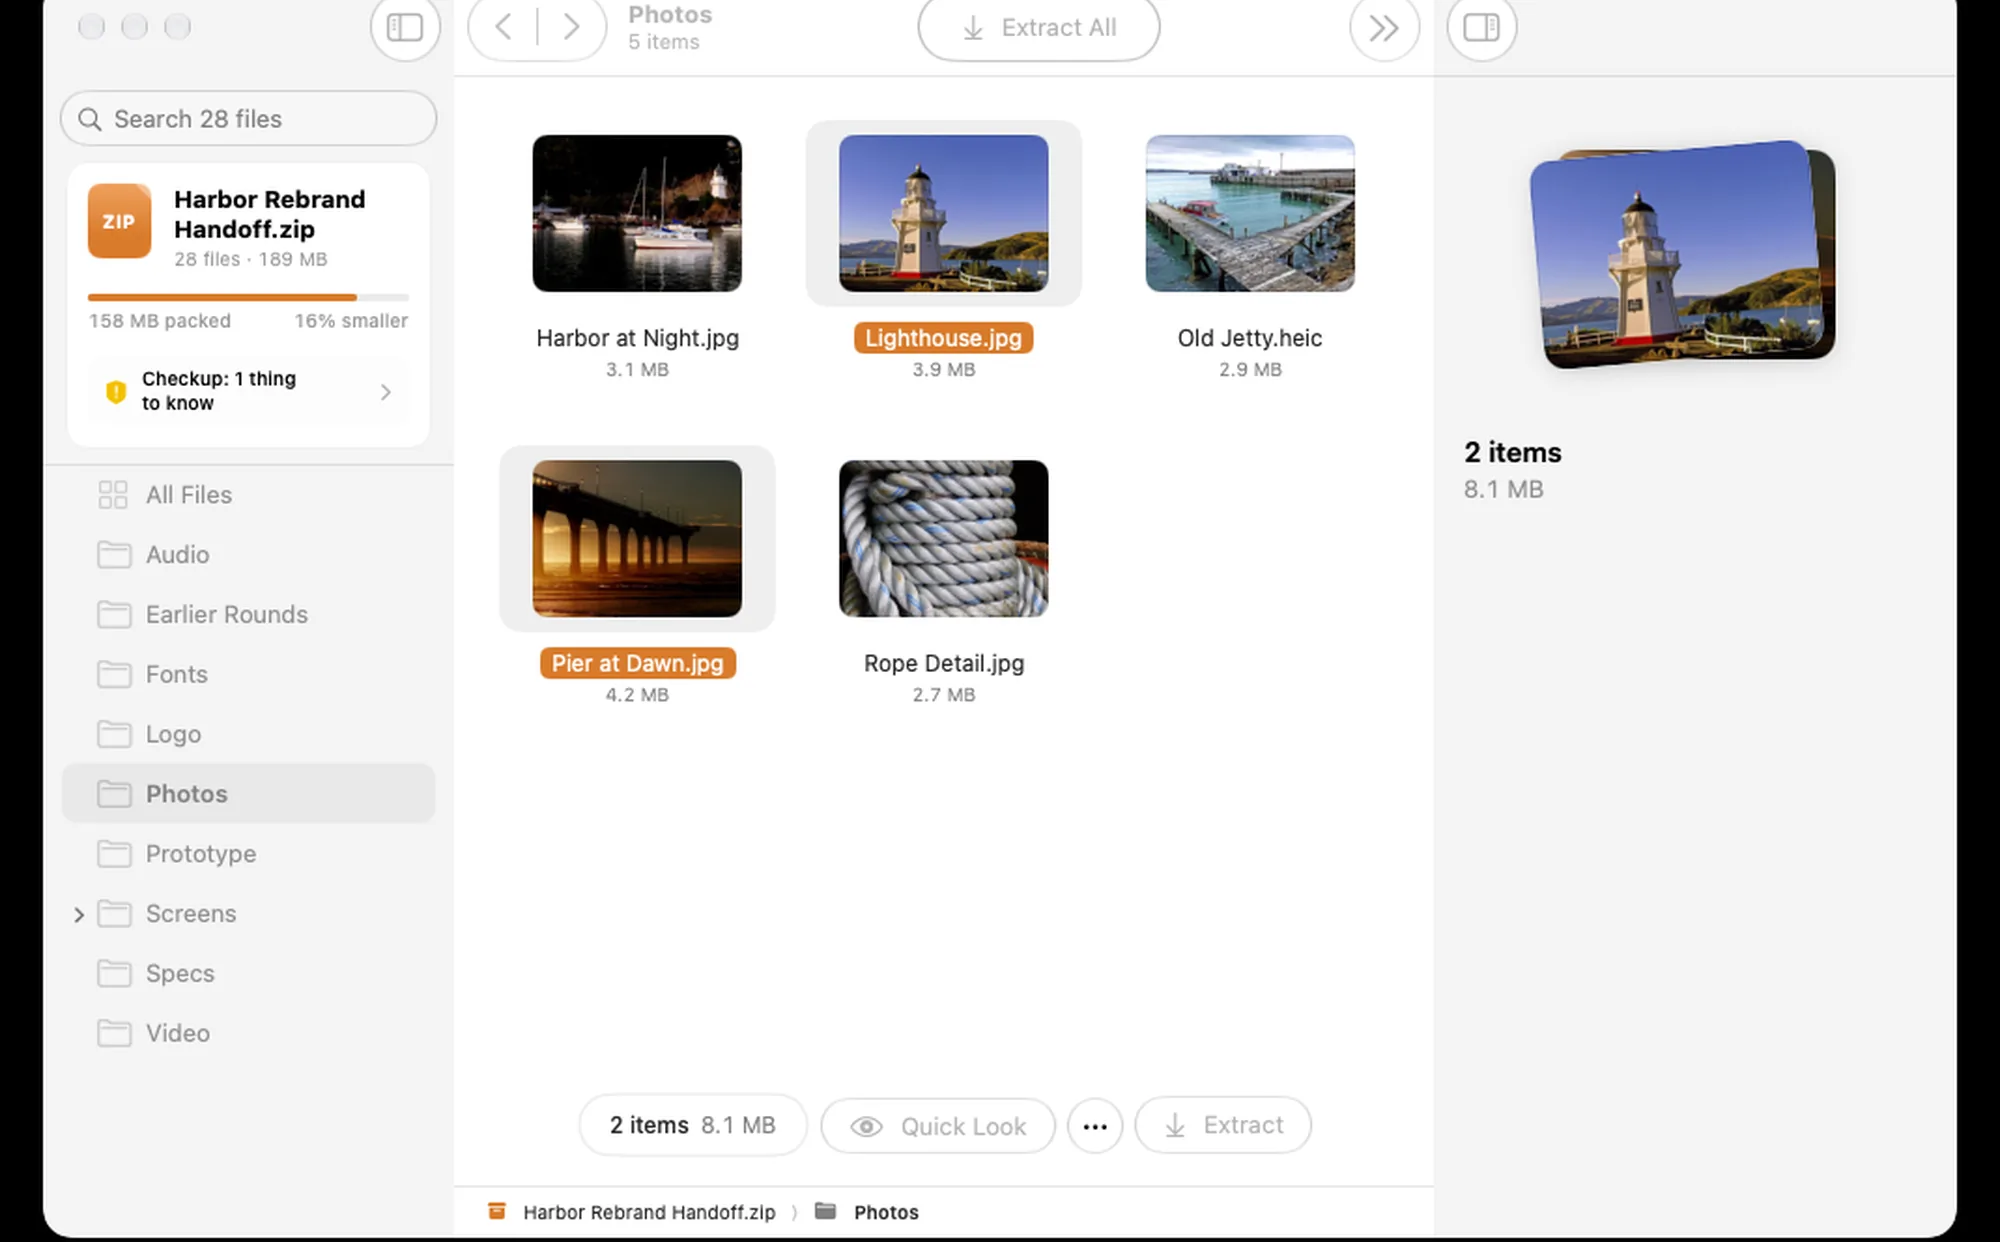
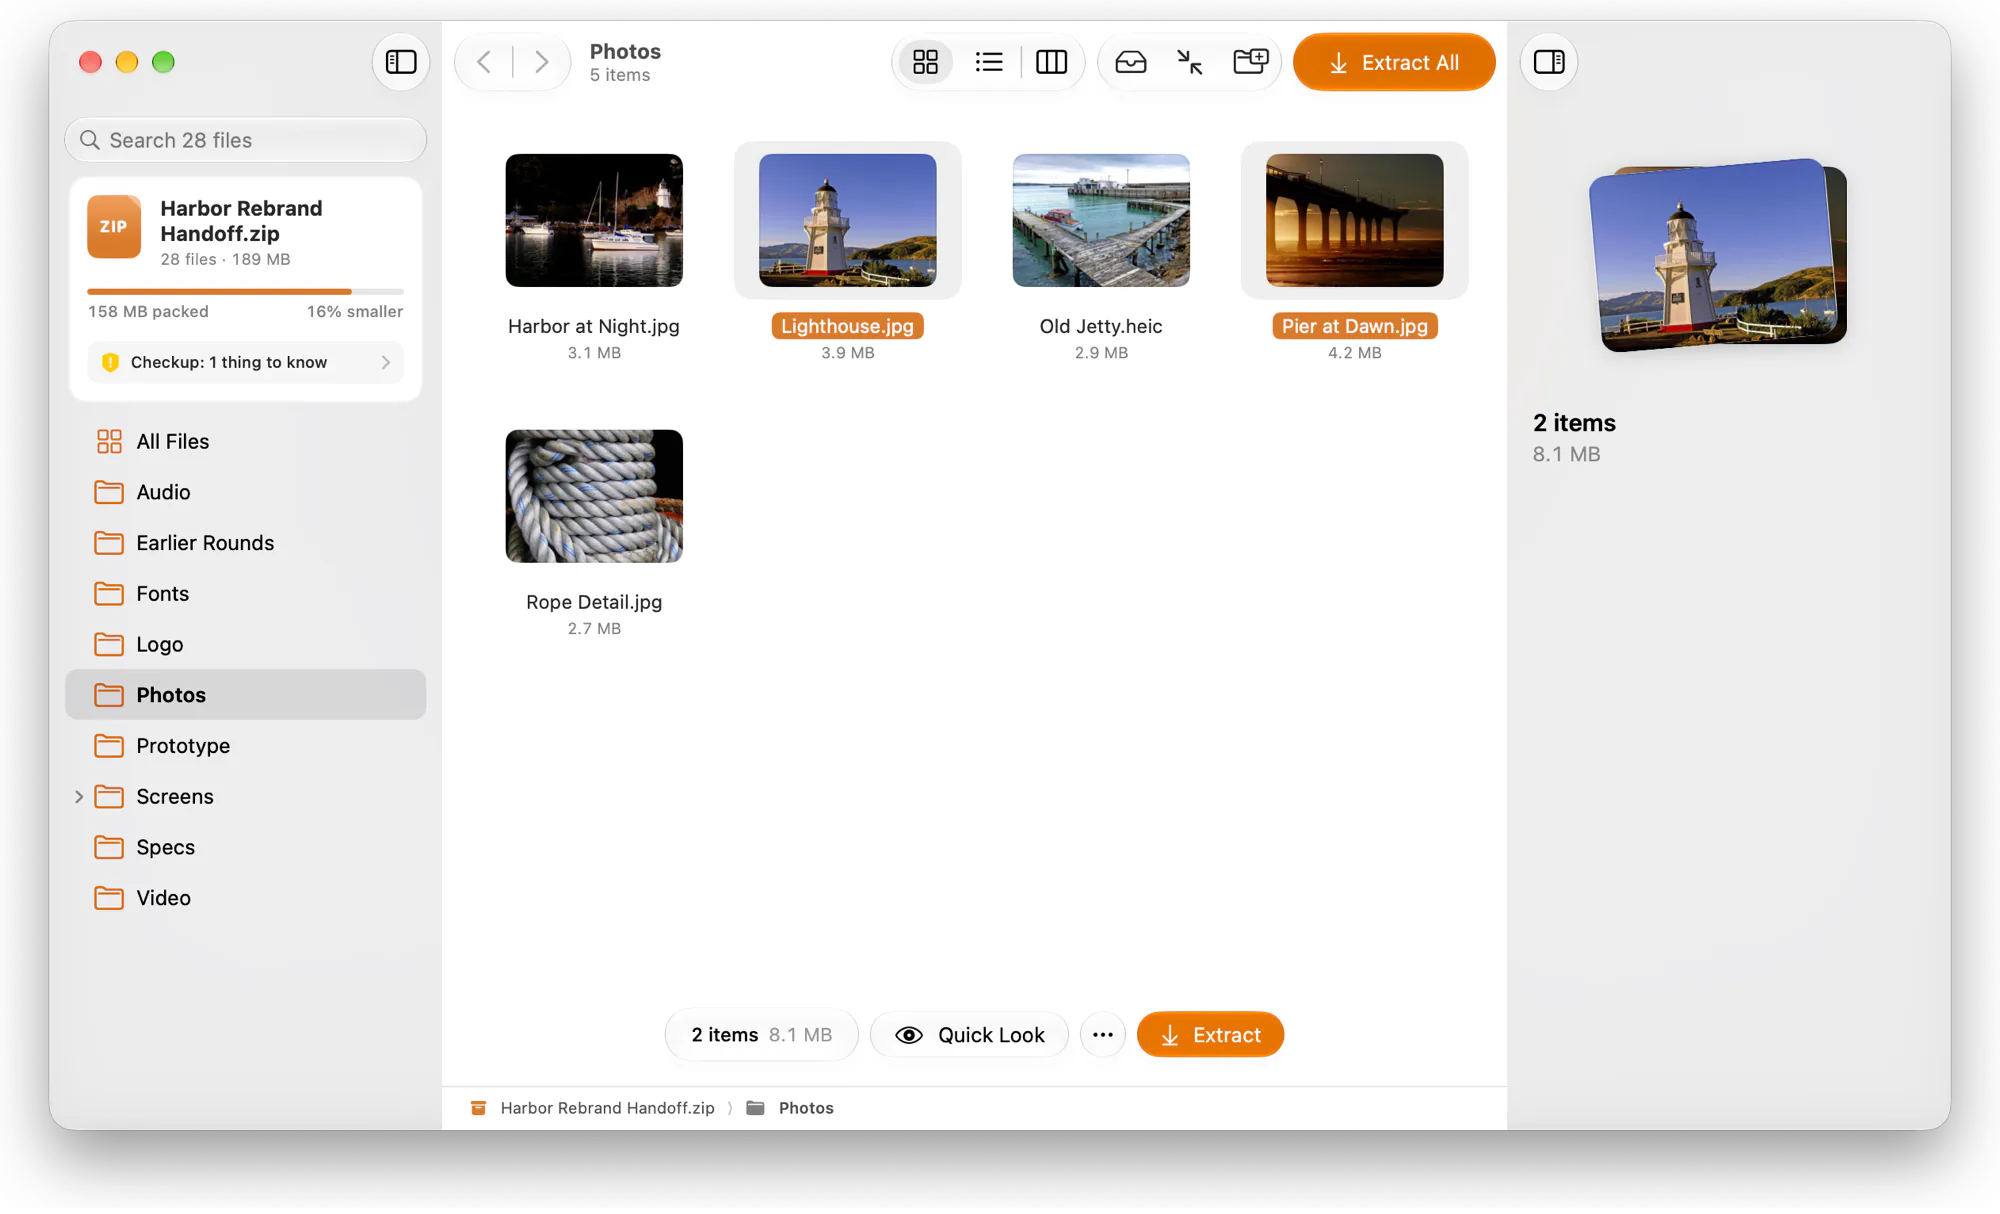
Fix broken website screenshots (#69)
The CI-based refresh in 7f6206c cropped windows (title bars and edges cut
off), captured them inactive, flattened transparency onto black, reused the
hero as the Next Steps shot, and turned three walkthrough frames into
zoomed-in sheet crops.

- Re-render the hero, Next Steps (fonts), editing, Glance, Tray and Quick
  Look shots locally with scripts/snapshot.sh: active full windows with real
  sample photos and transparent shadows, light and dark at equal sizes.
- Restore the original full-window walkthrough frames for checkup-3,
  checkup-4 and pack-1.
- Re-render walkthrough frame checkup-1 for the new helper-files Checkup
  copy (#147), at the same window size as its neighbours.
- Update image dimensions, two outdated alt texts and the roadmap status.

diff --git a/website/index.html b/website/index.html
@@ -548,7 +548,7 @@ footer { border-top: 1px solid var(--line); padding: 40px 0 56px; font-size: 13.
   <div class="hero-shot">
     <picture>
       <source srcset="assets/grid-dark.webp" media="(prefers-color-scheme: dark)">
-      <img src="assets/grid-light.webp" width="2000" height="1242" fetchpriority="high" alt="Stow showing the Photos folder of an archive: a sidebar with the archive card and Checkup status, image thumbnails, two selected photos, and a floating capsule offering Quick Look and Extract.">
+      <img src="assets/grid-light.webp" width="2000" height="1214" fetchpriority="high" alt="Stow showing the Photos folder of an archive: a sidebar with the archive card and Checkup status, image thumbnails, two selected photos, and a floating capsule offering Quick Look and Extract.">
     </picture>
   </div>
 </section>
@@ -699,7 +699,7 @@ footer { border-top: 1px solid var(--line); padding: 40px 0 56px; font-size: 13.
     <div class="shot steps-shot reveal">
       <picture>
         <source srcset="assets/steps-dark.webp" media="(prefers-color-scheme: dark)">
-        <img src="assets/steps-light.webp" width="1800" height="1118" loading="lazy" decoding="async" alt="Three font files selected in Stow, each shown as a type specimen. The floating capsule offers Install 3 Fonts, Quick Look and Extract.">
+        <img src="assets/steps-light.webp" width="1800" height="1093" loading="lazy" decoding="async" alt="Three font files selected in Stow, each shown as a type specimen. The floating capsule offers Install 3 Fonts, Quick Look and Extract.">
       </picture>
     </div>
   </div>
@@ -721,7 +721,7 @@ footer { border-top: 1px solid var(--line); padding: 40px 0 56px; font-size: 13.
       </ul>
     </div>
     <div class="shot steps-shot reveal">
-      <picture><source srcset="assets/editing-dark.webp" media="(prefers-color-scheme: dark)"><img src="assets/editing-light.webp" width="1800" height="1102" loading="lazy" decoding="async" alt="Stow editing the Photos folder of an archive: Contact Sheet.pdf and Field Notes.txt marked New, Lighthouse.jpg marked Renamed, and a bar at the bottom reading “3 unsaved changes” with Revert and Save."></picture>
+      <picture><source srcset="assets/editing-dark.webp" media="(prefers-color-scheme: dark)"><img src="assets/editing-light.webp" width="1800" height="1093" loading="lazy" decoding="async" alt="Stow editing the Photos folder of an archive: Contact Sheet.pdf and Field Notes.txt marked New, Harbor Lighthouse.jpg marked Renamed, and a bar at the bottom reading “3 unsaved changes” with Revert and Save."></picture>
     </div>
   </div>
 </section>
@@ -754,19 +754,19 @@ footer { border-top: 1px solid var(--line); padding: 40px 0 56px; font-size: 13.
     <div class="gallery">
       <article class="card reveal" style="--i:0">
         <div class="copy"><h3>Glance</h3><p>A small window that opens right by the pointer. See what’s inside, extract, and get back to work.</p></div>
-        <div class="pic pic-glance"><picture><source srcset="assets/glance-dark.webp" media="(prefers-color-scheme: dark)"><img src="assets/glance-light.webp" width="900" height="1022" loading="lazy" decoding="async" alt="Glance: a compact window listing the Photos folder, two photos selected, with Quick Look and Extract."></picture></div>
+        <div class="pic pic-glance"><picture><source srcset="assets/glance-dark.webp" media="(prefers-color-scheme: dark)"><img src="assets/glance-light.webp" width="900" height="1008" loading="lazy" decoding="async" alt="Glance: a compact window listing the Photos folder, two photos selected, with Quick Look and Extract."></picture></div>
       </article>
       <article class="card reveal" style="--i:1">
         <div class="copy"><h3>The Tray</h3><p>A shelf for files from anywhere, one click away in the menu bar. Gather them, then pack them or drag them out together.</p></div>
-        <div class="pic pic-tray"><picture><source srcset="assets/tray-dark.webp" media="(prefers-color-scheme: dark)"><img src="assets/tray-light.webp" width="692" height="972" loading="lazy" decoding="async" alt="The Tray panel holding six items, two selected, with a Pack button."></picture></div>
+        <div class="pic pic-tray"><picture><source srcset="assets/tray-dark.webp" media="(prefers-color-scheme: dark)"><img src="assets/tray-light.webp" width="692" height="985" loading="lazy" decoding="async" alt="The Tray panel holding six items, two selected, with a Pack button."></picture></div>
       </article>
       <article class="card reveal" style="--i:0">
         <div class="copy"><h3>Open Recent</h3><p>The welcome window keeps your recent archives, with where they are and when you last opened them.</p></div>
-        <div class="pic pic-recents"><picture><source srcset="assets/recents-dark.webp" media="(prefers-color-scheme: dark)"><img src="assets/recents-light.webp" width="1200" height="873" loading="lazy" decoding="async" alt="The welcome window: a drop area on the left and a list of recent archives on the right, each with its folder and when it was opened."></picture></div>
+        <div class="pic pic-recents"><picture><source srcset="assets/recents-dark.webp" media="(prefers-color-scheme: dark)"><img src="assets/recents-light.webp" width="1200" height="873" loading="lazy" decoding="async" alt="The welcome window: a drop area above a list of recent archives, each with its folder and when it was opened."></picture></div>
       </article>
       <article class="card reveal" style="--i:1">
         <div class="copy"><h3>Quick Look</h3><p>Press Space on an archive in Finder to see its contents and its Checkup, without opening Stow.</p></div>
-        <div class="pic pic-quicklook"><picture><source srcset="assets/quicklook-dark.webp" media="(prefers-color-scheme: dark)"><img src="assets/quicklook-light.webp" width="1100" height="895" loading="lazy" decoding="async" alt="A Quick Look preview of a ZIP: its size, a Checkup line saying an app isn’t notarized, and the folder tree with file sizes."></picture></div>
+        <div class="pic pic-quicklook"><picture><source srcset="assets/quicklook-dark.webp" media="(prefers-color-scheme: dark)"><img src="assets/quicklook-light.webp" width="1100" height="903" loading="lazy" decoding="async" alt="A Quick Look preview of a ZIP: its size, a Checkup line saying an app isn’t notarized, and the folder tree with file sizes."></picture></div>
       </article>
     </div>
   </div>

diff --git a/ROADMAP.md b/ROADMAP.md
@@ -113,7 +113,7 @@ checks remain recorded in [PARITY.md](PARITY.md) and *Tests not yet conducted* b
 | Consistency | One progress capsule style for packing, extracting, installing and batch; one prompt style for conflicts, signatures and passwords. |
 | Accessibility | done (#29): composed VoiceOver labels (grid, list, columns, Glance, Tray, nested search results, Next Steps summary), headers for the rotor, reading order sidebar → content → inspector → Next Steps, keyboard paths (Tray rows, onboarding, Quick Look); no animation for keyboard actions, solid surfaces under Reduce Transparency, stronger outlines and metadata under Increase Contrast. Manual VoiceOver checklist in #66 / #38 |
 | Empty and error states | Every failure says what happened and what to do, in plain words, with one action. |
-| Website | Screenshots partially refreshed from the real Harbor sample (CI Debug snapshots); full release-build retake and real product video of Pack and Checkup remain open. |
+| Website | Every screenshot shows the real Harbor sample, rendered locally with `scripts/snapshot.sh` as full windows with transparent shadows, in light and dark. A real product video of Pack and Checkup remains open (#31). |
 
 ## Release engineering
 
@@ -141,7 +141,7 @@ Editing, Glance (including colourful controls), Tray, Settings, onboarding, Simp
 Next Steps customisation, iCloud download handling, Open Recent, nested search, promised-file drops,
 DMG creation and the app icon are implemented. Items marked 🧪 in [PARITY.md](PARITY.md) still need
 verification; they are not unimplemented features. Clean-Mac Gatekeeper, live Sparkle updates and
-other manual checks remain below. Harbor sample files and Try the Sample wiring are on main (#70). Website hero/feature shots and hover-demo thumbs were refreshed from those assets in this PR. Remaining website tour frames (`checkup-1/2/5`, `pack-2..5`), Quick Look / Recents marketing shots at release size, and handing the sample to the #31 video remain open on #69.
+other manual checks remain below. Harbor sample files and Try the Sample wiring are on main (#70). Website shots and hover-demo thumbs use those assets. The hero, Next Steps, editing, Glance, Tray and Quick Look shots were re-rendered locally after the CI-based refresh cropped windows, lost transparency and duplicated the hero; the walkthrough frames are full-window renders, with the first re-rendered for the new helper-files Checkup copy. Handing the sample to the #31 video remains open on #69.
 
 ## Tests not yet conducted
 
